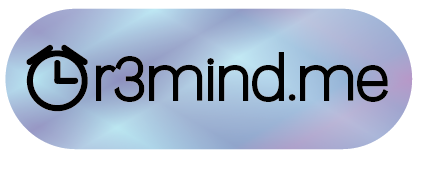
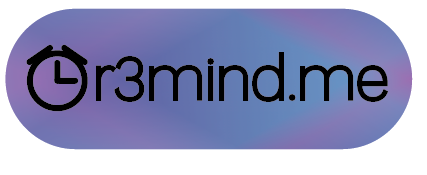
UI

diff --git a/public/css/lab6.css b/public/css/lab6.css
@@ -5,7 +5,7 @@
 }
 
 body {
-  background:url(../5.jpg);
+  background:url(../6.jpg);
   font-family: 'Titillium Web', sans-serif;
   background-size:cover;
 }
@@ -22,13 +22,13 @@ a {
   transition: .5s ease;
 }
 a:hover {
-  color: #f0b648;
+  color: #ffffff;
 }
 
 .form {
-  background:rgba(150,150,150,0.6);
+  background:rgba(153,153,153,0.6);
   padding: 40px;
-  max-width: 600px;
+  max-width: 800px;
   margin: 40px auto;
   border-radius: 4px;
   box-shadow: 0 4px 10px 4px rgba(19, 35, 47, 0.3);
@@ -63,11 +63,11 @@ a:hover {
   transition: .5s ease;
 }
 .tab-group li a:hover {
-  background: #f0b648;
-  color: #ffffff;
+  background: #daddee;
+  color: #6B95EF;
 }
 .tab-group .active a {
-  background: #d6a23f;
+  background: #6B95EF;
   color: #ffffff;
 }
 
@@ -161,7 +161,7 @@ input:focus{
   transition: all 0.5s ease;
 }
 .button:hover, .button:focus {
-  background: #f0b648;
+  background: #6B95EF;
 }
 
 .button-block {

diff --git a/public/css/lab6(2).css b/public/css/lab6(2).css
@@ -310,7 +310,7 @@ input:focus{
 .modal-content {
   width: 70%;
   max-height: 95%;
-    background-color: #fceaea;
+    background-color: #daddee;
     margin: auto;
     padding: 40px;
     border: 1px solid #888;
